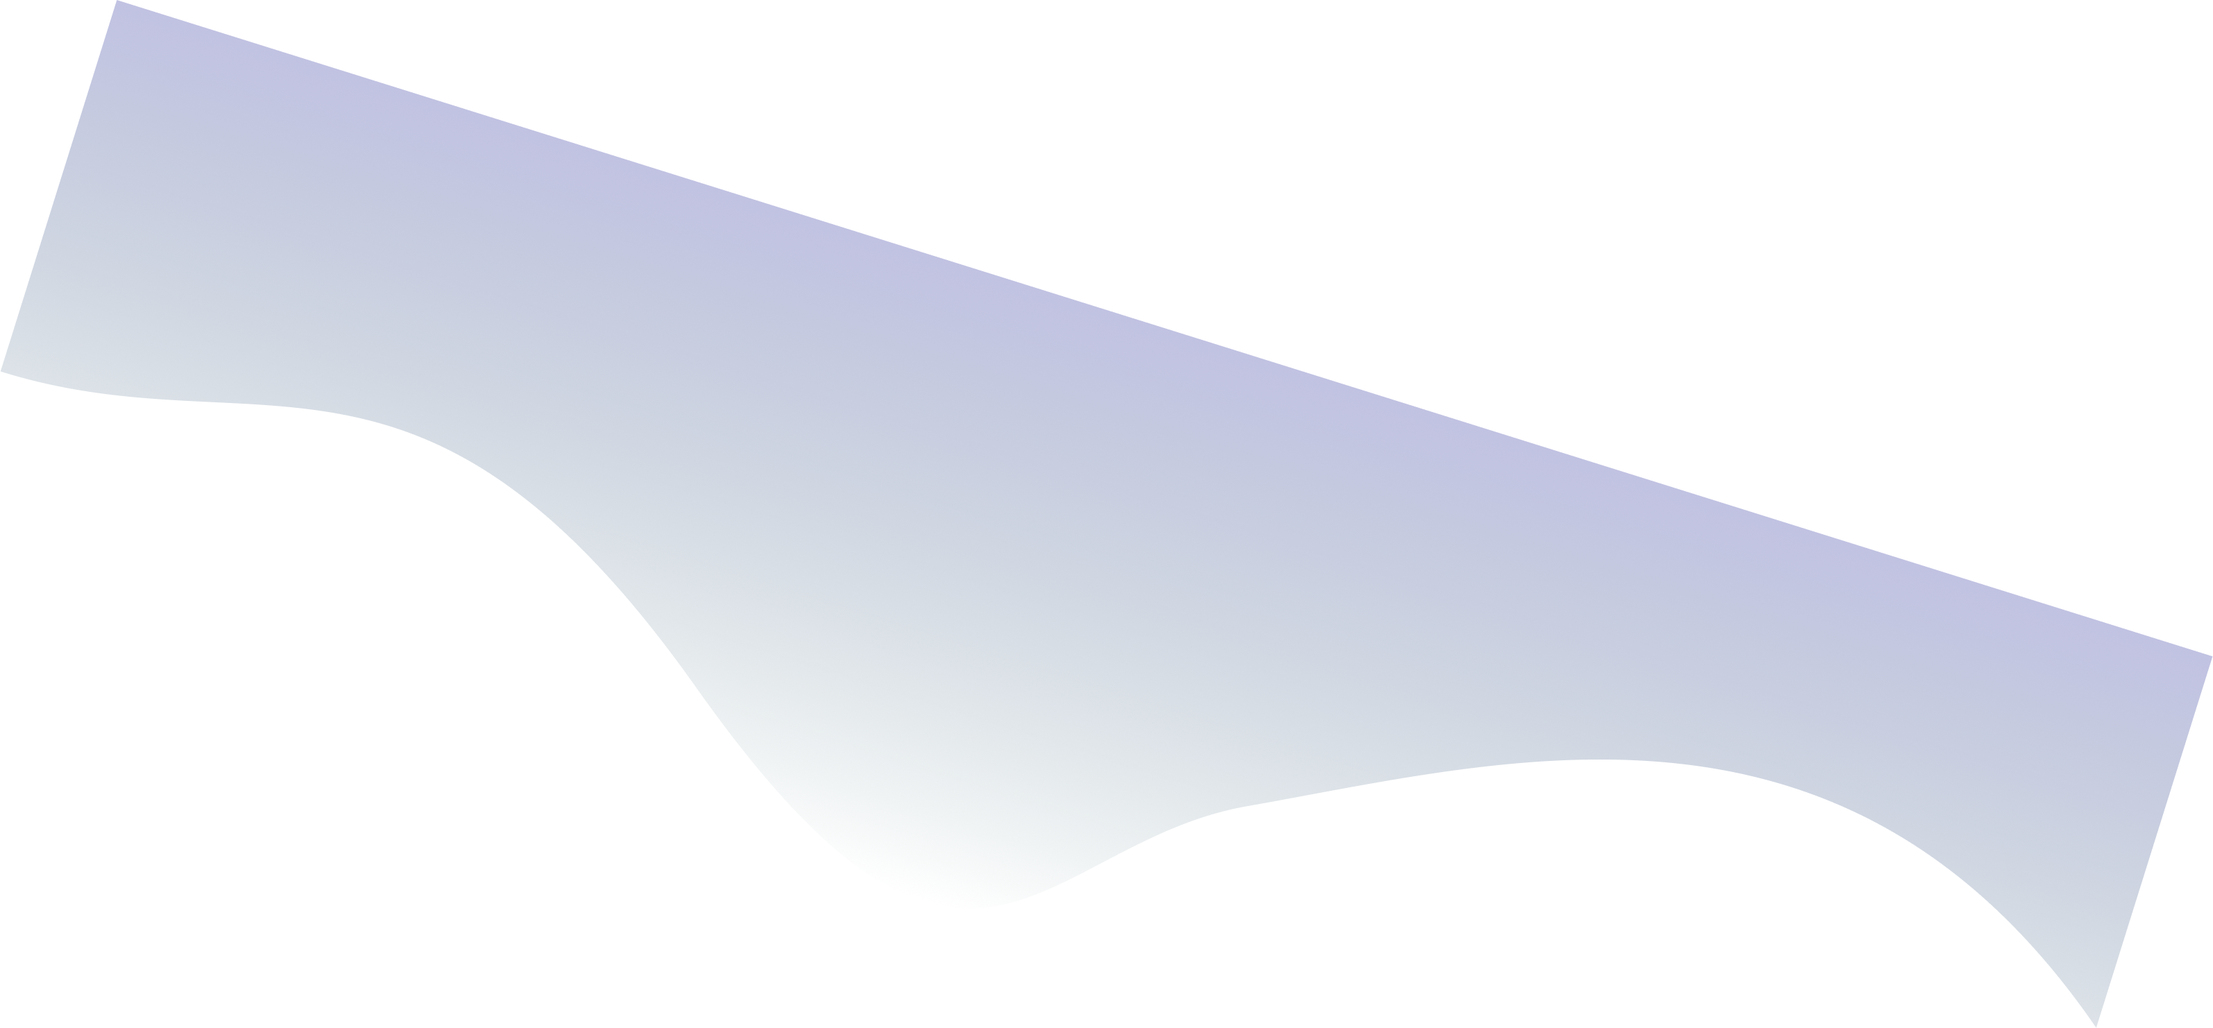
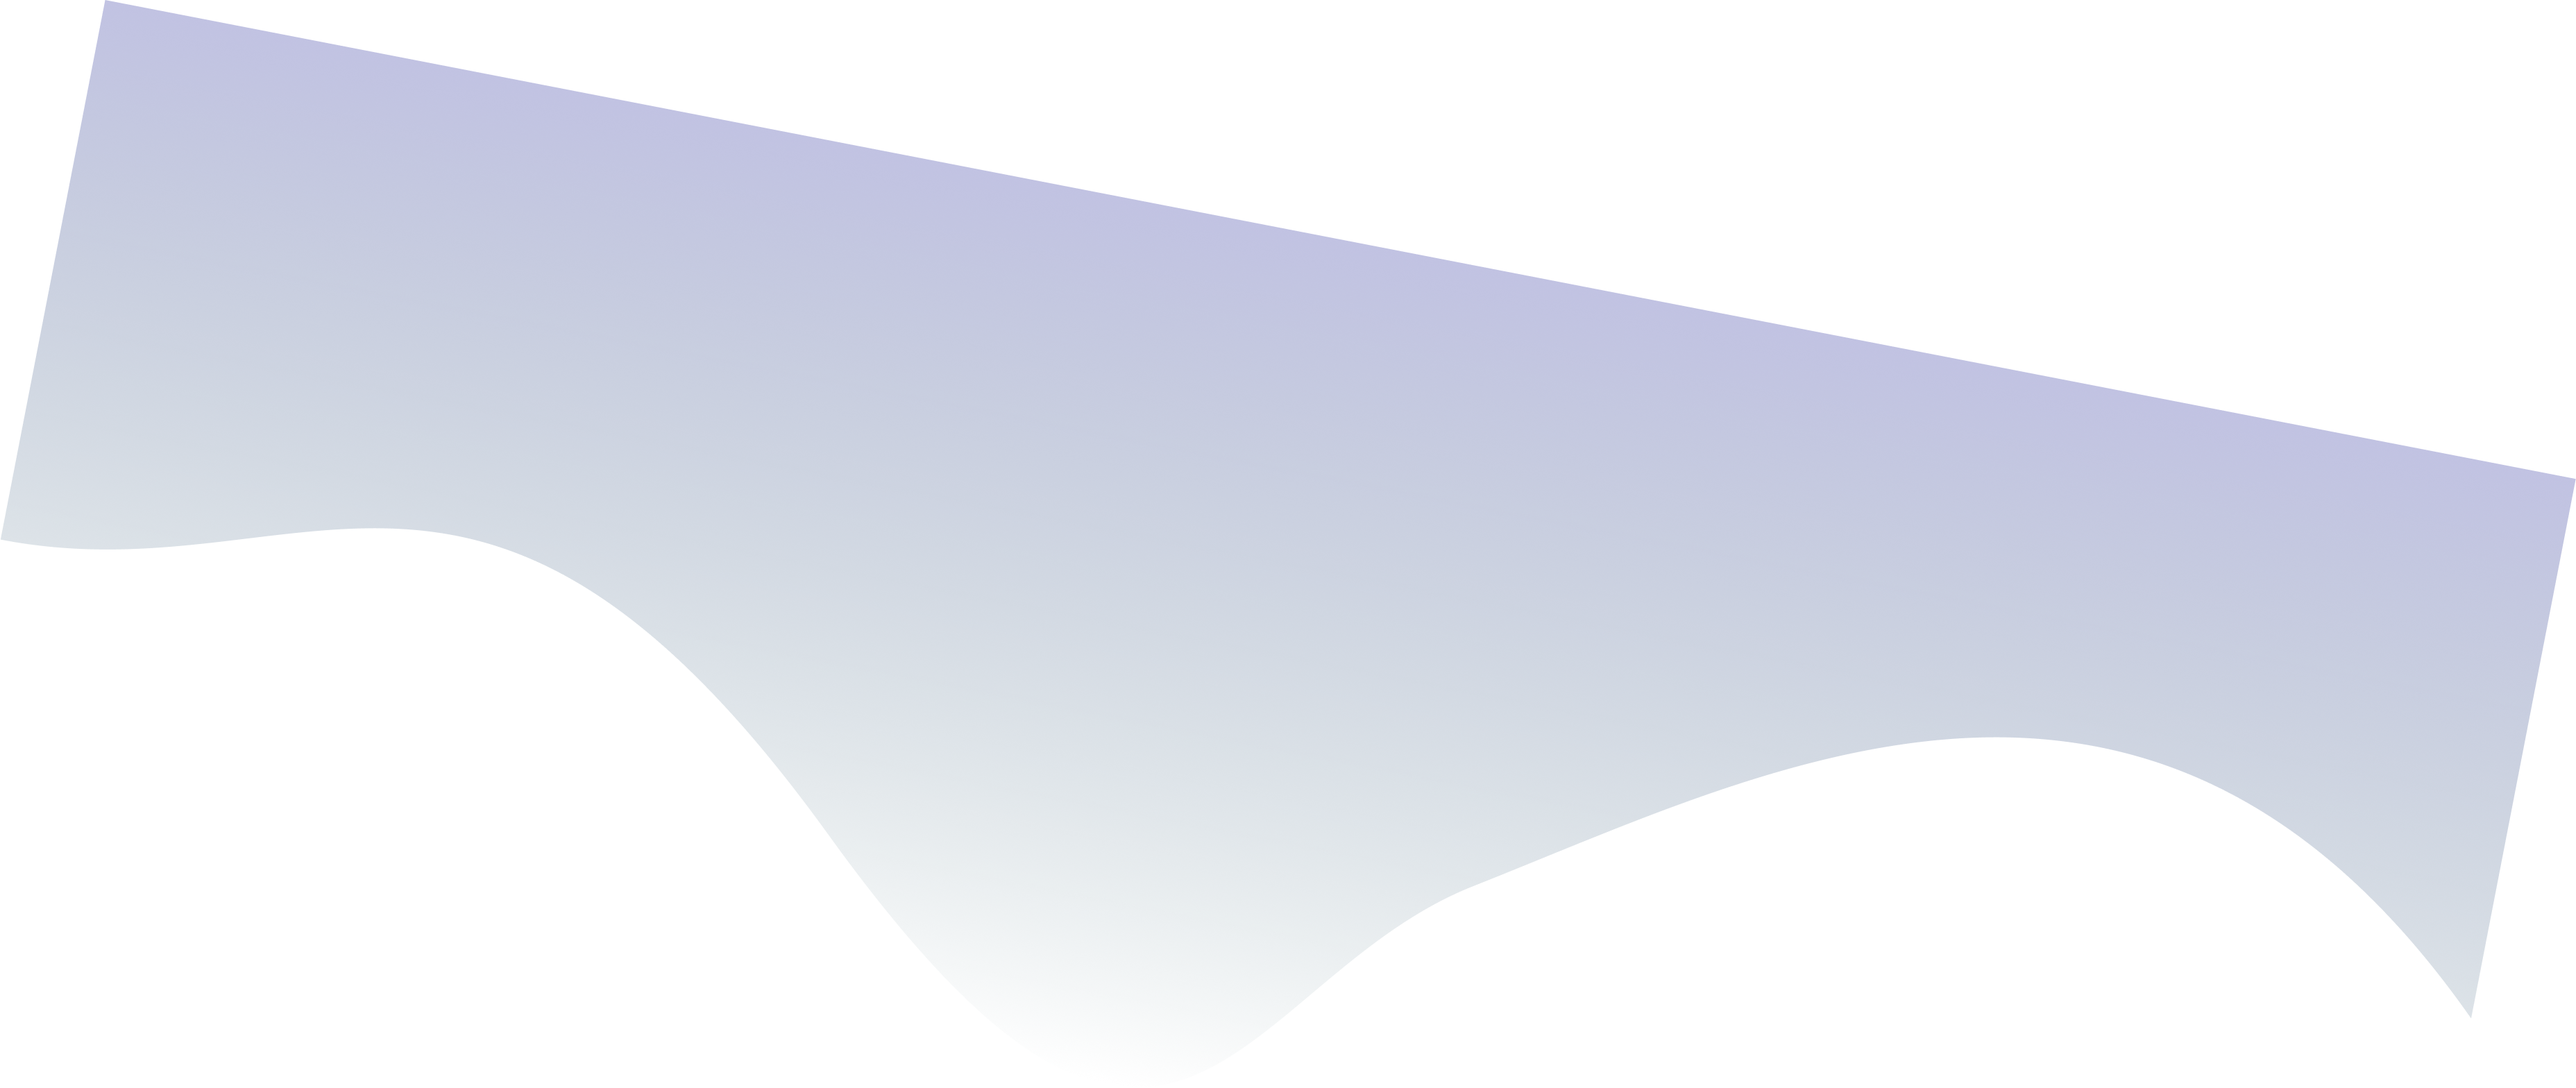
added waves to Result and Room routes.

diff --git a/src/components/Room/results.scss b/src/components/Room/results.scss
@@ -1,5 +1,5 @@
 .results {
-  background-color: antiquewhite;
+  overflow-y: hidden;
   height: 100vh;
   width: 100%;
   display: flex;
@@ -9,11 +9,39 @@
   font-family: Roboto;
   font-style: normal;
 
+  .wave1Container {
+    overflow: hidden;
+    position: absolute;
+    left: -291px;
+    z-index: 0;
+    img {
+      height: 100%;
+    }
+  }
+  .wave2Container {
+    overflow: hidden;
+    position: absolute;
+    top: -227px;
+    left: -116px;
+    z-index: 1;
+    img {
+      height: 100%;
+    }
+  }
+  .wave3Container {
+    overflow: hidden;
+    position: absolute;
+    z-index: 1;
+    img {
+      height: 100%;
+    }
+  }
+
   .uparrContainer {
     position: absolute;
     top: 20px;
     left: calc(50% - 47.5px);
-    z-index: 1;
+    z-index: 3;
     transition: 0.25s;
     cursor: pointer;
     img {
@@ -28,7 +56,7 @@
     position: absolute;
     top: 55px;
     left: 50px;
-    z-index: 1;
+    z-index: 3;
     transition: 0.25s;
     cursor: pointer;
     img {
@@ -43,7 +71,7 @@
     position: absolute;
     top: 55px;
     right: 50px;
-    z-index: 1;
+    z-index: 3;
     transition: 0.25s;
     cursor: pointer;
     img {
@@ -61,7 +89,7 @@
     left: 236px;
     width: 200px;
     height: 246px;
-    z-index: 1;
+    z-index: 3;
     overflow: hidden;
   }
 
@@ -78,14 +106,15 @@
     box-shadow: 0px 10px 10px rgba(0, 0, 0, 0.25);
     border-radius: 50px;
     overflow: hidden;
-    z-index: 0;
+    z-index: 3;
   }
 
   h1 {
     color: #253757;
     font-weight: bold;
     font-size: 60px;
-    margin: 55px 0 0;
+    margin: 105px 0 0;
     text-shadow: 0px 4px 4px rgba(0, 0, 0, 0.25);
+    z-index: 3;
   }
 }

diff --git a/src/components/Room/room.scss b/src/components/Room/room.scss
@@ -1,5 +1,5 @@
 .room {
-  background-color: antiquewhite;
+  overflow-y: hidden;
   height: 100vh;
   width: 100%;
   display: flex;
@@ -8,6 +8,39 @@
   flex-direction: column;
   font-family: Roboto;
   font-style: normal;
+
+  .wave1Container {
+    overflow: hidden;
+    position: absolute;
+    top: 229px;
+    width: 2294px;
+    height: 374px;
+    left: -23px;
+    z-index: 0;
+    img {
+      height: 100%;
+    }
+  }
+  .wave2Container {
+    overflow: hidden;
+    position: absolute;
+    top: 480px;
+    left: -260px;
+    z-index: 1;
+    img {
+      height: 100%;
+    }
+  }
+
+  .calImg {
+    position: absolute;
+    top: 118px;
+    left: 32px;
+    width: 516px;
+    height: 511px;
+    z-index: 1;
+    overflow: hidden;
+  }
 
   .downarrContainer {
     position: absolute;

diff --git a/src/components/Room/Results.jsx b/src/components/Room/Results.jsx
@@ -4,6 +4,15 @@ import { useParams, useNavigate, useLocation } from "react-router-dom";
 const Results = () => {
   return (
     <div className="results">
+      <div className="wave1Container">
+        <img src="assets/Result/wave1.png" alt="background wave" />
+      </div>
+      <div className="wave2Container">
+        <img src="assets/Result/wave2.png" alt="background wave" />
+      </div>
+      <div className="wave3Container">
+        <img src="assets/Result/wave3.png" alt="background wave" />
+      </div>
       <div className="homebtnContainer">
         <img src="assets/Home.png" alt="Home Button" />
       </div>

diff --git a/src/components/Room/Room.jsx b/src/components/Room/Room.jsx
@@ -109,6 +109,15 @@ const Room = () => {
   return (
     <>
       <div className="room">
+        <div className="wave1Container">
+          <img src="assets/Room/wave1.png" alt="background wave" />
+        </div>
+        <div className="wave2Container">
+          <img src="assets/Room/wave2.png" alt="background wave" />
+        </div>
+        <div className="calImg">
+          <img src="assets/Room/Saly-42.png" alt="Image of Calendar" />
+        </div>
         <div
           className="homebtnContainer"
           onClick={() => {

diff --git a/src/components/RoomSetup/roomSetup.scss b/src/components/RoomSetup/roomSetup.scss
@@ -45,8 +45,6 @@
     overflow: hidden;
     position: absolute;
     top: 159px;
-    width: 2935px;
-    height: 676px;
     left: -824px;
     z-index: 0;
     img {
@@ -56,8 +54,6 @@
   .wave2Container {
     overflow: hidden;
     position: absolute;
-    width: 3575px;
-    height: 744px;
     top: 230px;
     left: -317px;
     z-index: 1;
@@ -68,8 +64,6 @@
   .wave3Container {
     overflow: hidden;
     position: absolute;
-    width: 3575px;
-    height: 744px;
     top: 378px;
     left: -1312px;
     z-index: 0;

diff --git a/src/components/Landing/landing.scss b/src/components/Landing/landing.scss
@@ -9,8 +9,6 @@
   .rec1Container {
     overflow: visible;
     position: absolute;
-    width: 3391px;
-    height: 968px;
     left: -1400px;
     z-index: 0;
     img {
@@ -21,8 +19,6 @@
   .rec2Container {
     overflow: hidden;
     position: absolute;
-    width: 3391px;
-    height: 968px;
     left: -1239px;
     z-index: 0;
     img {
